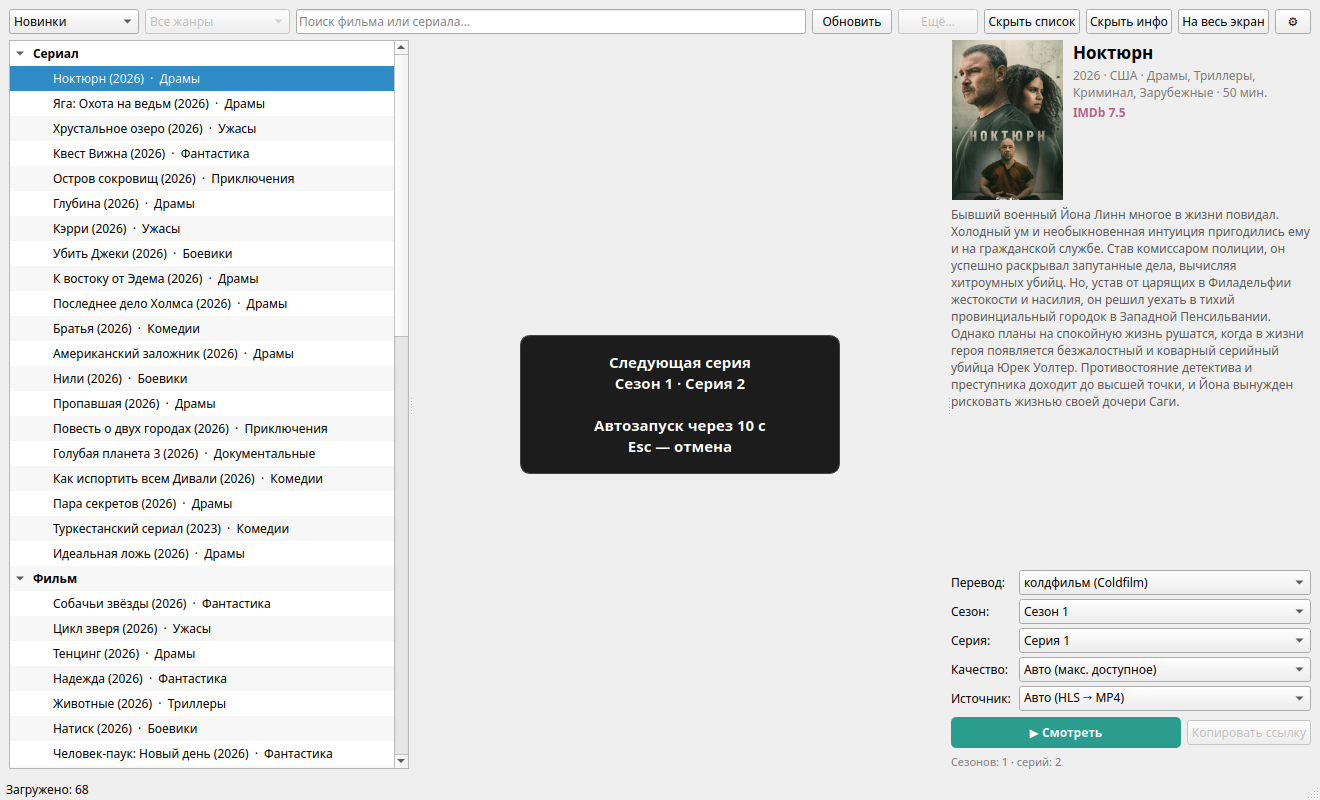
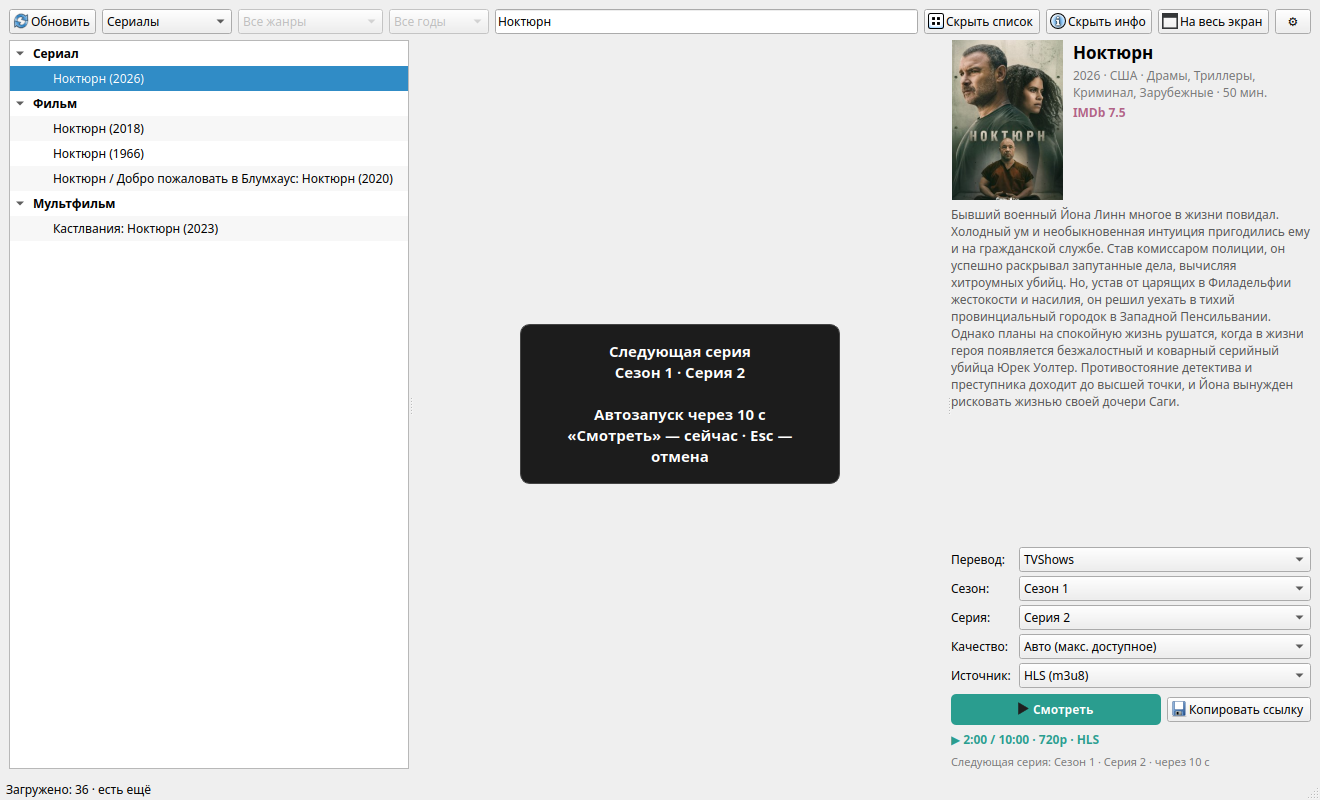
кнопки с пиктограммами

diff --git a/hdrezka_gui.py b/hdrezka_gui.py
@@ -375,15 +375,21 @@ class EpisodesWorker(QThread):
 class StreamWorker(QThread):
     done = pyqtSignal(int, object)
 
+    MAX_TRIES = 4
+
     def __init__(
-        self, client, post_id: str, translator_id: str, season: str,
+        self, client, post_id: str, translator_ids, season: str,
         episode: str, is_series: bool, quality: str, referer: str,
         token: int, parent=None,
     ):
         super().__init__(parent)
         self.client = client
         self.post_id = post_id
-        self.translator_id = translator_id
+        if isinstance(translator_ids, str):
+            translator_ids = [translator_ids]
+        self.translator_ids = [
+            str(t) for t in (translator_ids or []) if str(t)
+        ]
         self.season = season
         self.episode = episode
         self.is_series = is_series
@@ -392,25 +398,41 @@ class StreamWorker(QThread):
         self.token = token
 
     def run(self):
-        try:
-            info = self.client.fetch_stream(
-                self.post_id,
-                self.translator_id,
-                self.season,
-                self.episode,
-                self.is_series,
-                self.referer,
-            )
-            chosen = core.choose_quality(info.qualities, self.quality)
-            if chosen is None:
-                raise core.HDrezkaError("нет доступных качеств")
-            self.done.emit(
-                self.token,
-                {"stream": info, "chosen": chosen, "error": ""},
-            )
-        except Exception as e:
-            traceback.print_exc()
-            self.done.emit(self.token, {"error": str(e)})
+        last_error = "нет доступных переводов"
+        tried = set()
+        for tid in self.translator_ids[: self.MAX_TRIES]:
+            if tid in tried:
+                continue
+            tried.add(tid)
+            try:
+                info = self.client.fetch_stream(
+                    self.post_id,
+                    tid,
+                    self.season,
+                    self.episode,
+                    self.is_series,
+                    self.referer,
+                )
+                chosen = core.choose_quality(info.qualities, self.quality)
+                if chosen is None:
+                    raise core.HDrezkaError("нет доступных качеств")
+                self.done.emit(
+                    self.token,
+                    {
+                        "stream": info,
+                        "chosen": chosen,
+                        "translator_id": tid,
+                        "error": "",
+                    },
+                )
+                return
+            except Exception as e:
+                last_error = str(e)
+                _log("translation try failed:", tid, last_error)
+        self.done.emit(
+            self.token,
+            {"error": last_error, "translator_id": ""},
+        )
 
 
 class CheckWorker(QThread):
@@ -3455,11 +3477,15 @@ class MainWindow(QMainWindow):
             self.episode_combo.clear()
         self._suppress_ui = False
 
-        self.play_btn.setEnabled(True)
+        self.play_btn.setEnabled(not info.coming_soon)
         note = ""
         if pro_only:
             note = " · только PRO-переводы (нужен аккаунт с подпиской)"
-        if not self._playing_key:
+        if info.coming_soon:
+            self.stream_status.setText(
+                "Видео ещё не добавлено — фильм только анонсирован"
+            )
+        elif not self._playing_key:
             self.stream_status.setText(
                 f"{info.kind} · {info.year}"
                 + (" · PRO-контент" if info.premium else "")
@@ -3659,6 +3685,11 @@ class MainWindow(QMainWindow):
             return
         _log("play_current:", self._selection(info))
         self._autoplay_last_pending = False
+        if info.coming_soon:
+            self.stream_status.setText(
+                "Видео ещё не добавлено — фильм только анонсирован"
+            )
+            return
         if self.player.mpv is None:
             QMessageBox.warning(
                 self, "mpv",
@@ -3671,7 +3702,9 @@ class MainWindow(QMainWindow):
         if not tid:
             tid = info.default_translator
         if not tid:
-            self.stream_status.setText("Не выбран перевод")
+            self.stream_status.setText(
+                "Нет доступных переводов — видео пока не добавлено"
+            )
             return
 
         if info.is_series:
@@ -3697,8 +3730,16 @@ class MainWindow(QMainWindow):
         self.stream_status.setText("Получение ссылки на поток…")
         self.statusBar().showMessage("Получение ссылки…")
         quality = str(self.quality_combo.currentData() or "auto")
+        tids = [tid]
+        if not info.is_series:
+            # Для фильма можно попробовать другие доступные переводы,
+            # если в выбранном ссылка недоступна.
+            for i in range(self.translation_combo.count()):
+                value = str(self.translation_combo.itemData(i) or "")
+                if value and value not in tids:
+                    tids.append(value)
         worker = StreamWorker(
-            self.client, info.post_id, tid, sid, eid, info.is_series,
+            self.client, info.post_id, tids, sid, eid, info.is_series,
             quality, info.url, token, self,
         )
         self._track_worker(worker)
@@ -3739,6 +3780,26 @@ class MainWindow(QMainWindow):
         chosen: core.Quality = (result or {}).get("chosen")
         if stream is None or chosen is None:
             return
+        used_tid = str((result or {}).get("translator_id") or "")
+        if used_tid:
+            idx = self.translation_combo.findData(used_tid)
+            if idx >= 0 and used_tid != str(
+                self.translation_combo.currentData() or ""
+            ):
+                self._suppress_ui = True
+                self.translation_combo.setCurrentIndex(idx)
+                self._suppress_ui = False
+                self.statusBar().showMessage(
+                    "Поток найден в другом переводе: "
+                    + self.translation_combo.currentText(),
+                    8000,
+                )
+            if self._title_info is not None and self._title_info.is_series:
+                sid = str(self.season_combo.currentData() or "1")
+                eid = str(self.episode_combo.currentData() or "1")
+            else:
+                sid, eid = "1", "1"
+            self._pending_selection = (used_tid, sid, eid)
         self._last_stream = stream
         self._start_playback(stream, chosen)
 

diff --git a/hdrezka_core.py b/hdrezka_core.py
@@ -151,6 +151,7 @@ class TitleInfo:
     default_season: str = "1"
     default_episode: str = "1"
     premium: bool = False
+    coming_soon: bool = False
 
 
 @dataclass
@@ -654,6 +655,12 @@ def parse_title_html(text: str, url: str, base: str) -> TitleInfo:
     if default_tid and default_tid not in {t.id for t in translators}:
         translators.insert(0, Translator(id=default_tid, name="По умолчанию"))
 
+    low = (text or "").lower()
+    coming_soon = (
+        "скоро онлайн" in low
+        or "анонсы и трейлеры" in low
+    )
+
     return TitleInfo(
         post_id=post_id,
         url=url,
@@ -676,6 +683,7 @@ def parse_title_html(text: str, url: str, base: str) -> TitleInfo:
         default_translator=default_tid,
         default_season=default_season,
         default_episode=default_episode,
+        coming_soon=coming_soon,
     )
 
 

diff --git a/README.md b/README.md
@@ -160,6 +160,16 @@ python hdrezka_gui.py
 Нажмите **«Повторить»** в окне ошибки, выберите другой перевод или источник
 MP4. Если ошибка повторяется — сбросьте сессию в настройках.
 
+Для фильмов при ошибке выбранного перевода приложение автоматически
+пробует остальные доступные переводы. Переводы, которых нет на странице
+тайтла, не перебираются: сайт не отдаёт для них ссылку.
+
+**Фильм есть, но видео не запускается.**
+Если на странице написано «скоро онлайн» или «анонсы и трейлеры»,
+видео ещё не выложено. Приложение покажет сообщение
+«Видео ещё не добавлено — фильм только анонсирован». Никакой перевод
+в этом случае не поможет.
+
 **Не работает прокси, особенно SOCKS.**
 Укажите схему полностью: `socks5://host:port`, `socks4://host:port`,
 `https://host:port`. Для socks/https приложение поднимает локальный
